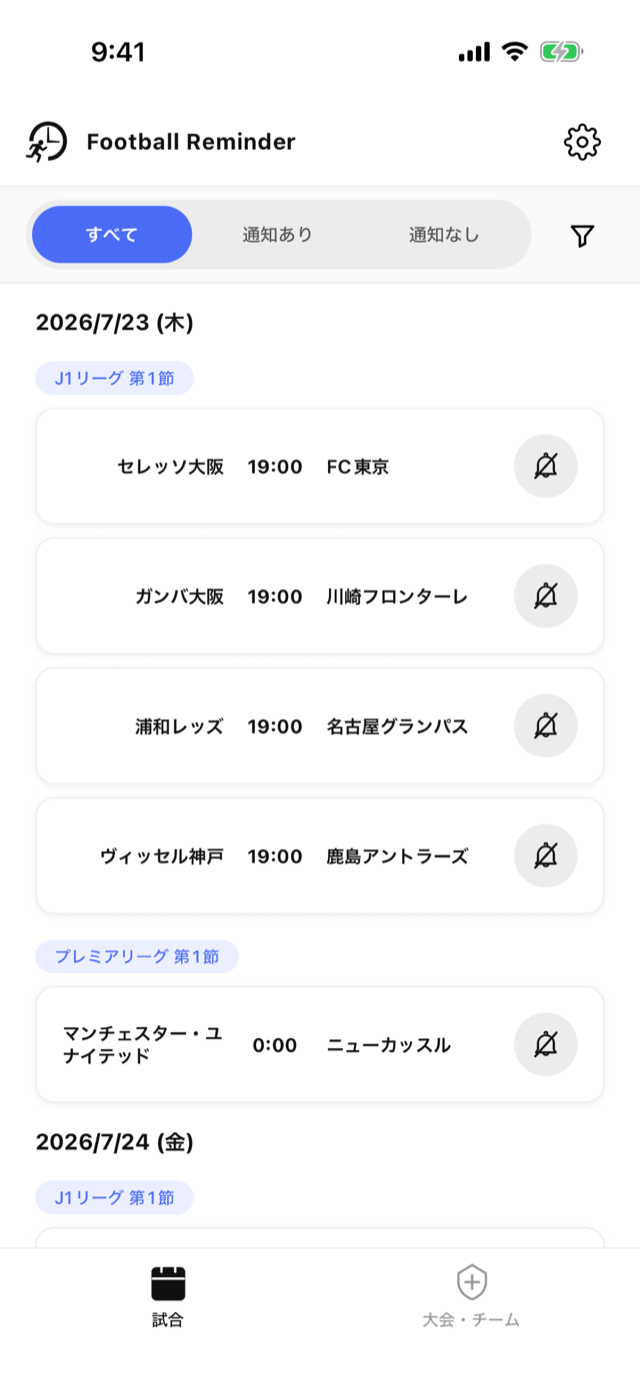
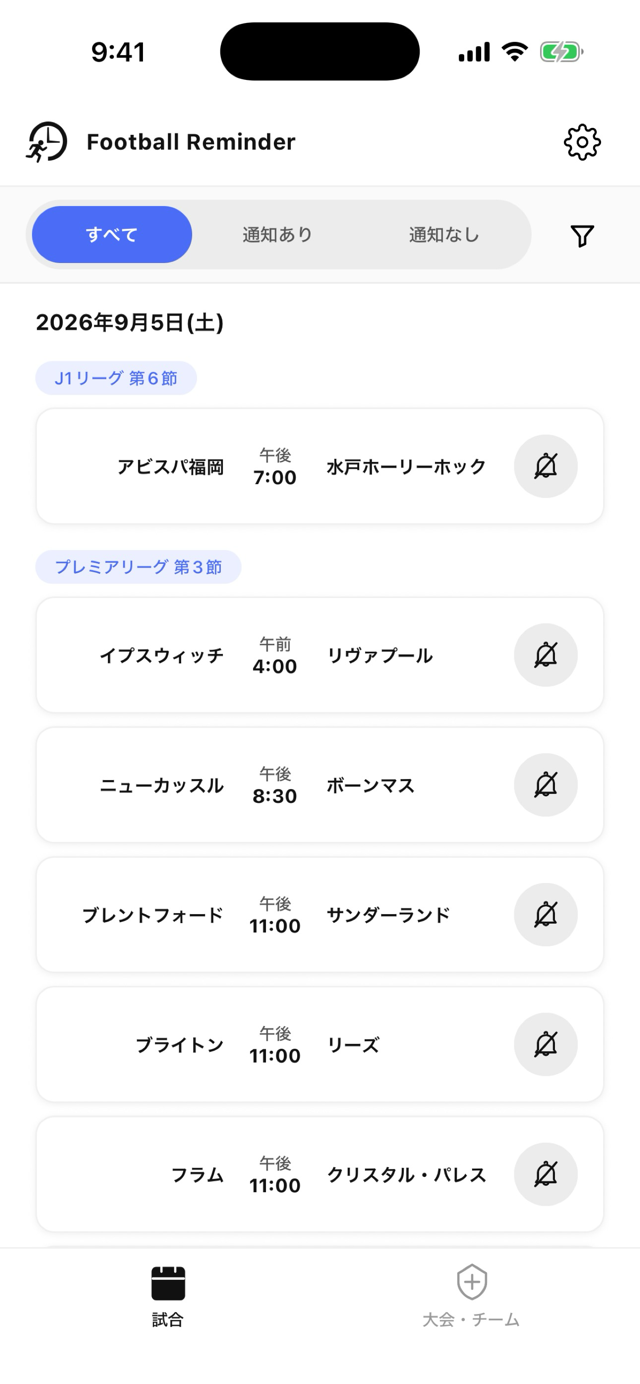
docs: スクショを最新の UI に差し替え、並びを App Store と揃える
ja のスクショが 2026-08-01 撮影のままで、日付ヘッダーが `2026/7/23 (木)`
という旧書式だった。Intl 日時整形とチーム名折り返しの修正より前のもので、
現行アプリの見た目と食い違っていた。

- ja 4 枚を 2026-09-04 撮影分に差し替える（640x1384 へリサイズ）
- 並びを App Store と同じ 試合 -> 通知時間設定 -> チーム -> フィルター に変更
  （検索結果では 1〜2 枚目しか見えないため、通知の画面を 2 枚目へ）
- en は現行 UI と一致していたので連番の付け替えのみ

Claude-Session: https://claude.ai/code/session_01VWPGZxYW3CLtoYG8g8qzGd

diff --git a/index.html b/index.html
@@ -39,9 +39,9 @@
     <h2>スクリーンショット / Screenshots</h2>
     <div class="screenshots">
       <img src="images/01_match_list.png" alt="試合一覧画面 / Match list" loading="lazy" width="320" height="692">
-      <img src="images/02_filter.png" alt="大会・チームでの絞り込み / Filter by competition and team" loading="lazy" width="320" height="692">
+      <img src="images/02_reminder_settings.png" alt="リマインダー時刻の設定 / Reminder time settings" loading="lazy" width="320" height="692">
       <img src="images/03_subscription_tree.png" alt="チーム・大会の購読設定 / Subscription settings" loading="lazy" width="320" height="692">
-      <img src="images/04_reminder_settings.png" alt="リマインダー時刻の設定 / Reminder time settings" loading="lazy" width="320" height="692">
+      <img src="images/04_filter.png" alt="大会・チームでの絞り込み / Filter by competition and team" loading="lazy" width="320" height="692">
     </div>
 
     <h2>リンク / Links</h2>
